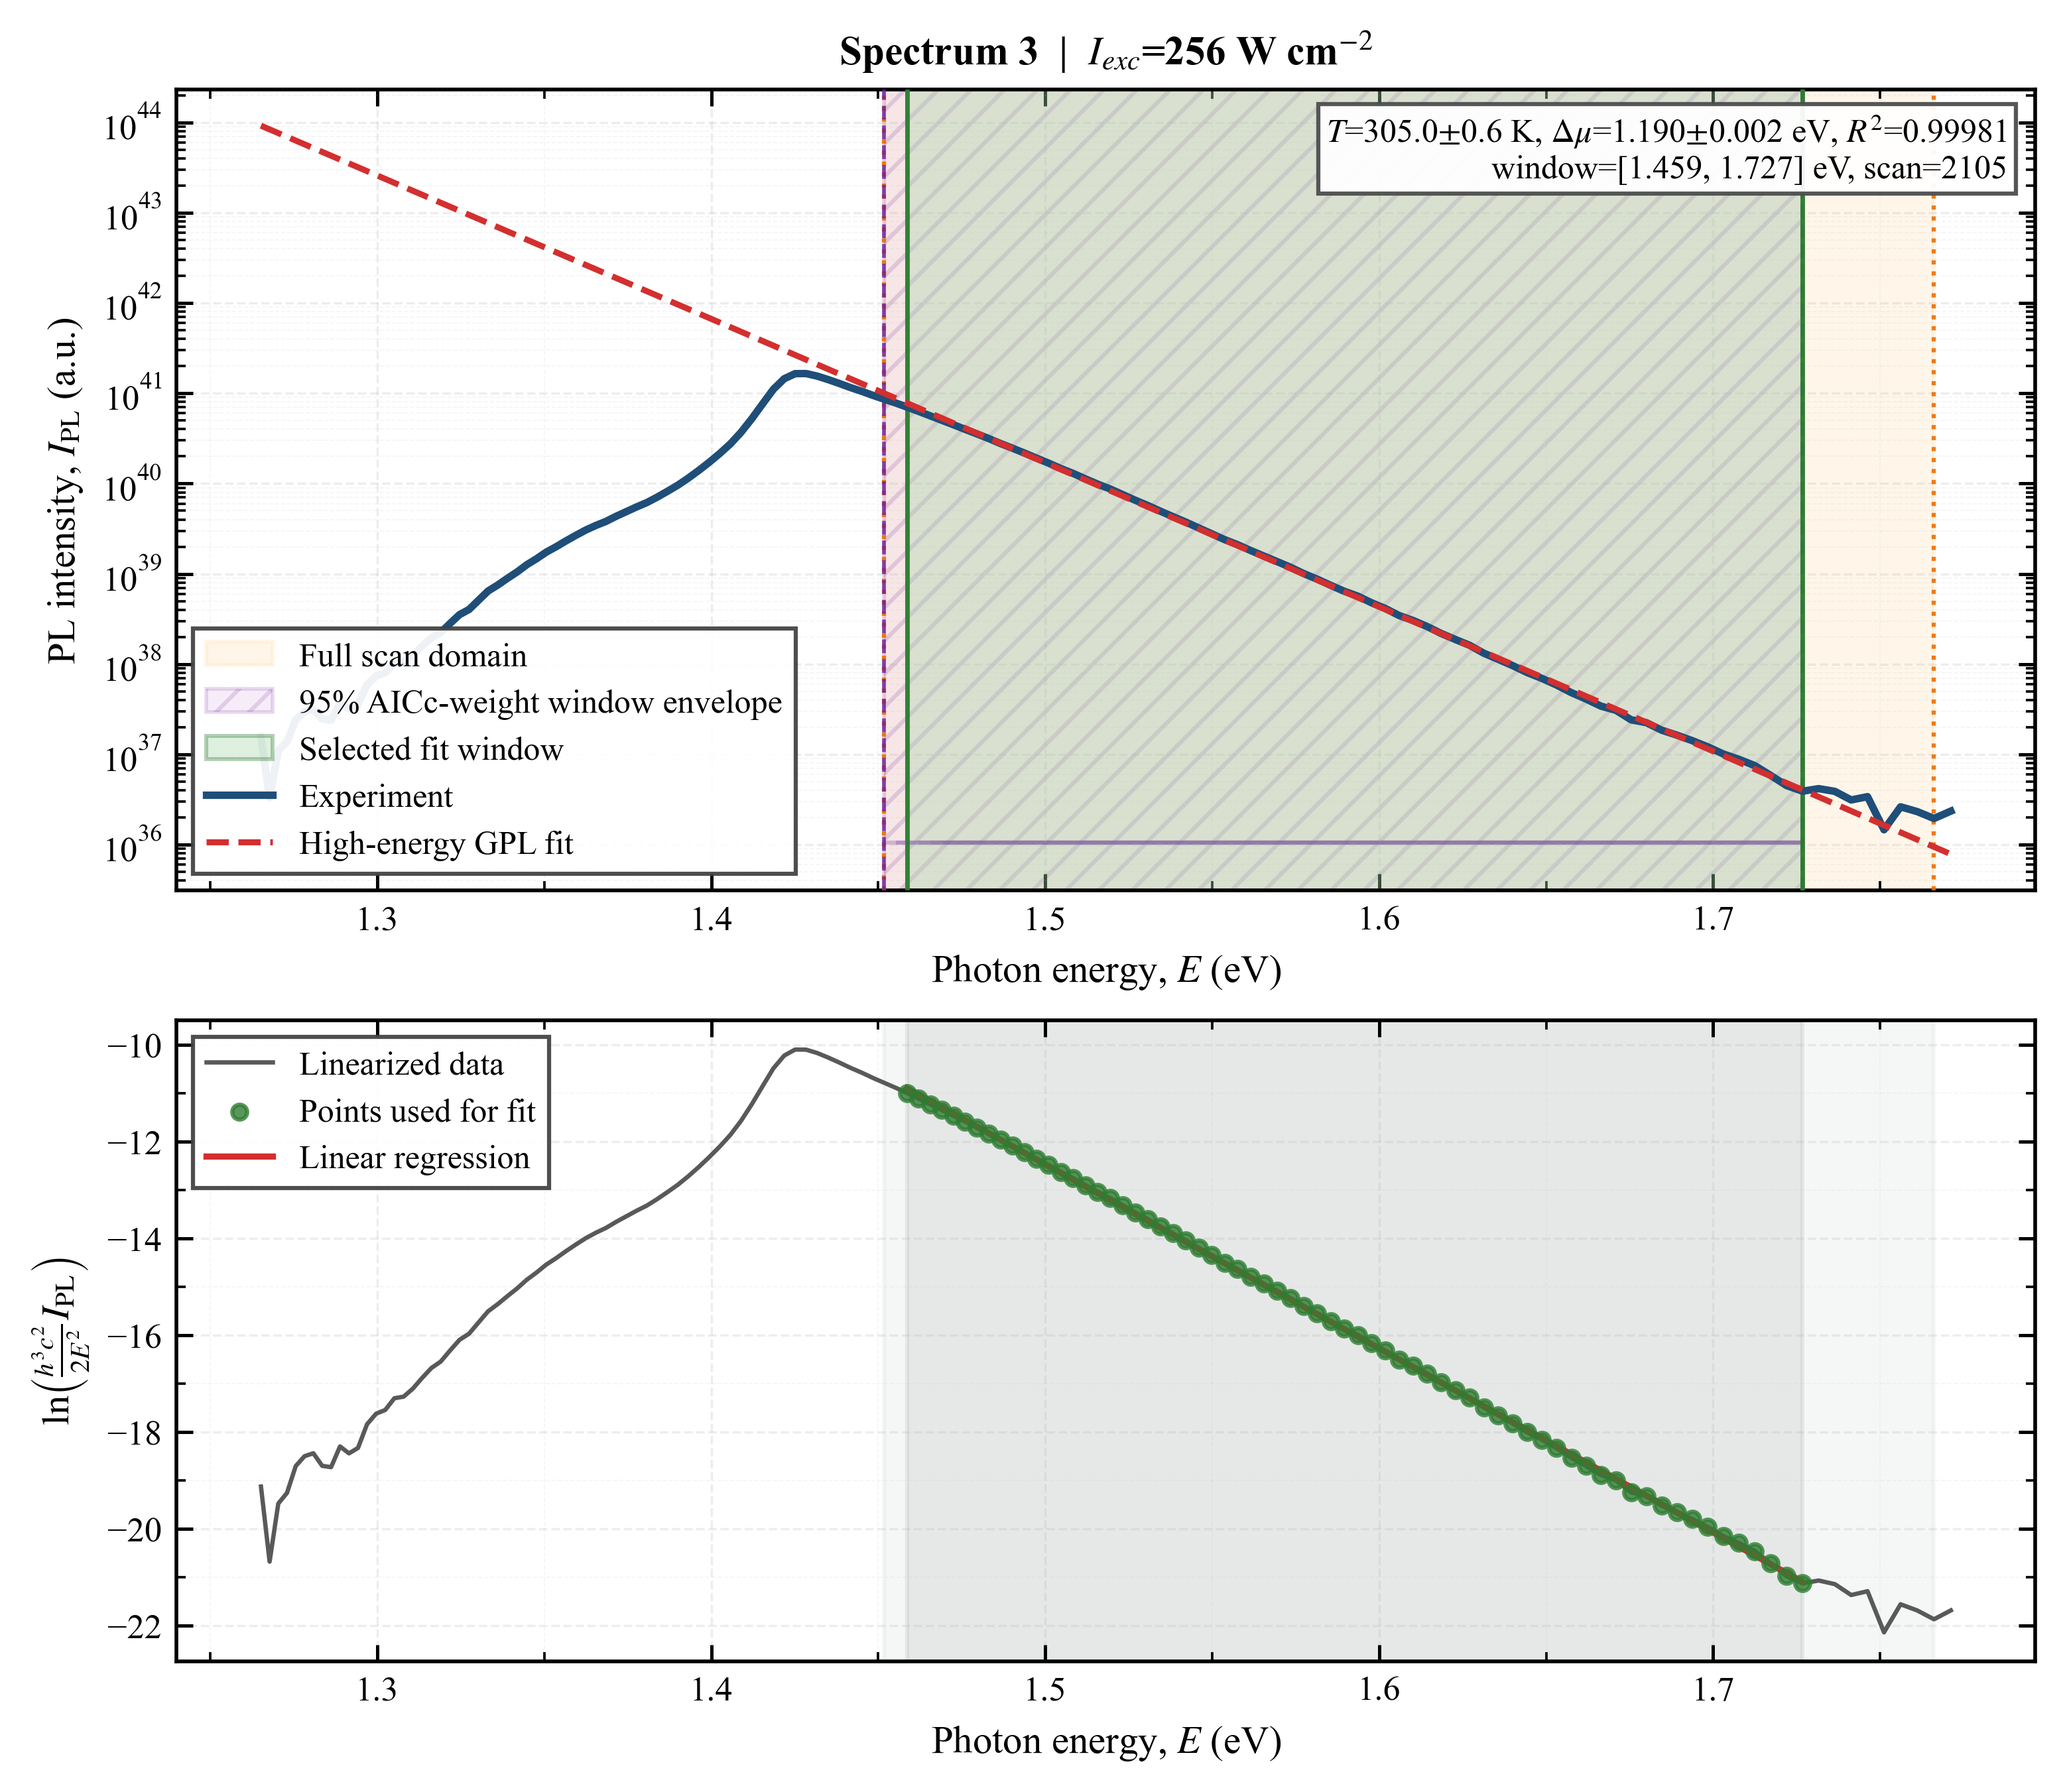
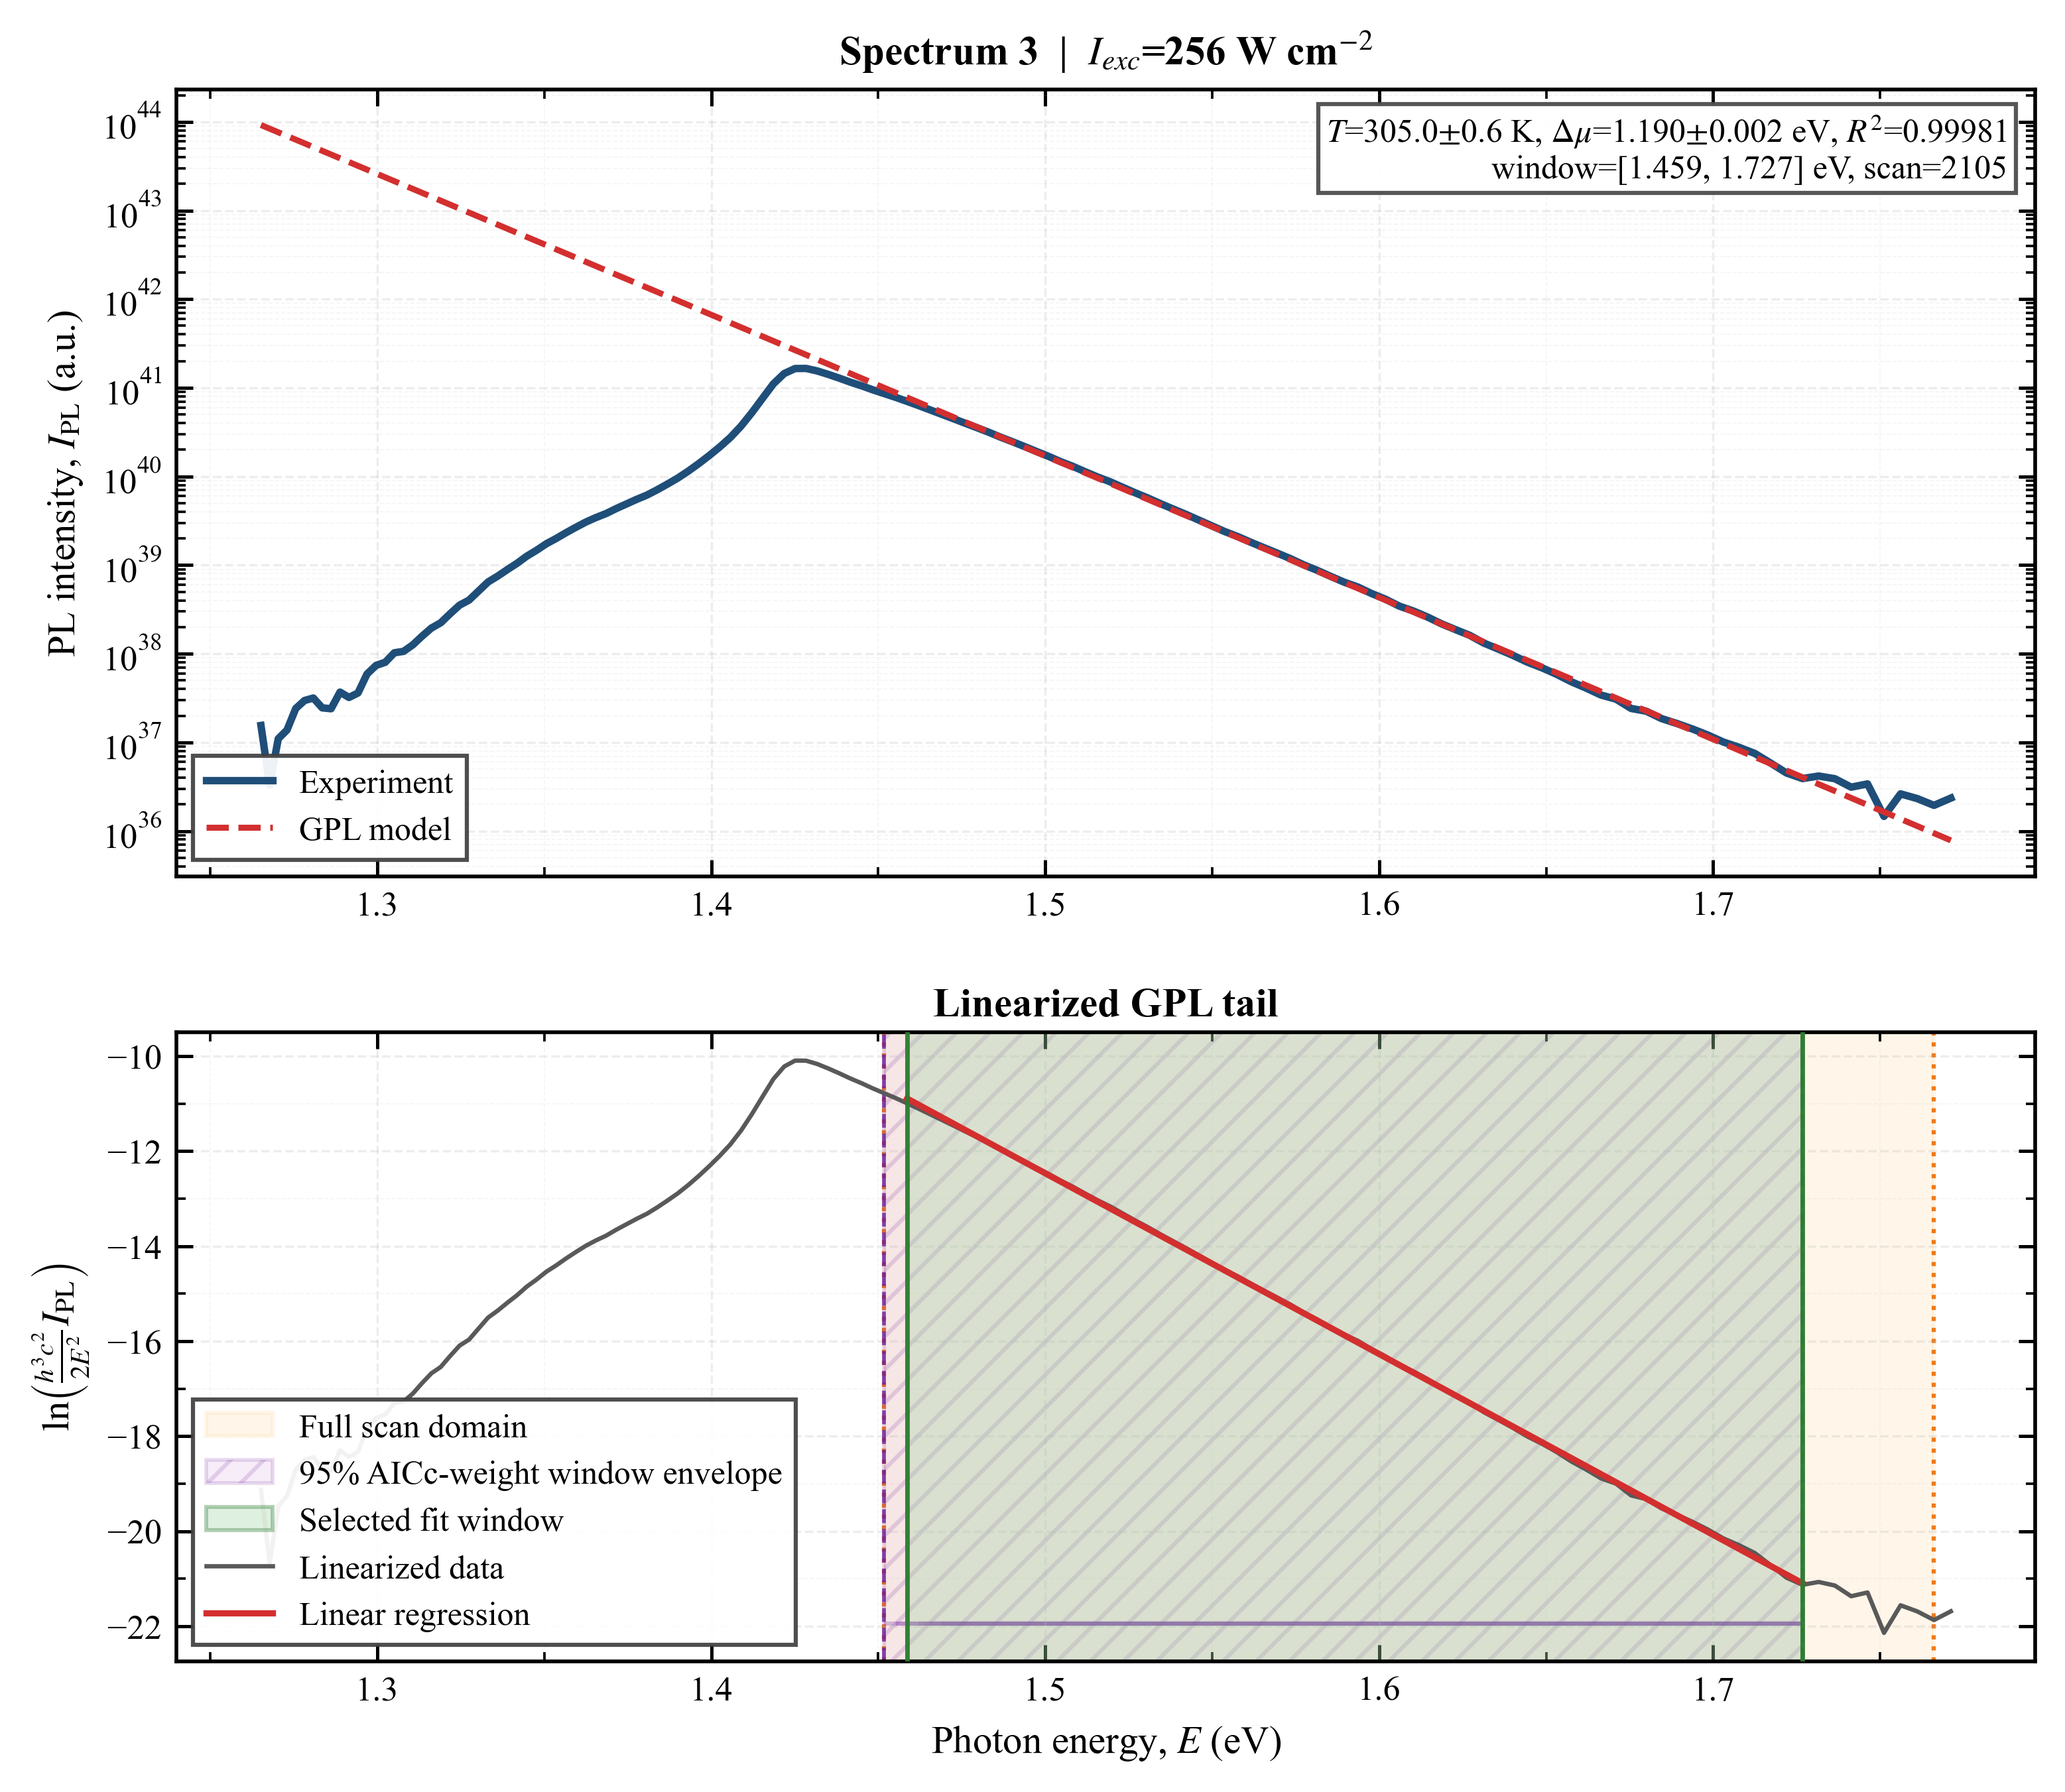
Enhance README with detailed explanation of linearized Q extraction from P_th vs ΔT figure and update plotting.py for improved visual diagnostics

diff --git a/hot_carrier/plotting.py b/hot_carrier/plotting.py
@@ -266,7 +266,7 @@ def plot_single_fit(
         1,
         figsize=_page_single_column_figsize(PAGE_TALL_FIG_HEIGHT_IN),
         sharex=False,
-        gridspec_kw={"height_ratios": [1.25, 1.0], "hspace": 0.18},
+        gridspec_kw={"height_ratios": [1.25, 1.0], "hspace": 0.22},
     )
     ax0, ax1 = axes
 
@@ -277,61 +277,6 @@ def plot_single_fit(
     envelope_fill_color = "#ce93d8"
     envelope_edge_color = "#6a1b9a"
 
-    if scan_domain_ev is not None:
-        ax0.axvspan(
-            scan_domain_ev[0],
-            scan_domain_ev[1],
-            color=scan_fill_color,
-            alpha=0.28,
-            zorder=0,
-            label="Full scan domain",
-        )
-        ax0.axvline(
-            scan_domain_ev[0], color=scan_edge_color, lw=1.0, ls=":", alpha=0.9, zorder=3
-        )
-        ax0.axvline(
-            scan_domain_ev[1], color=scan_edge_color, lw=1.0, ls=":", alpha=0.9, zorder=3
-        )
-    if fit_range_windows_ev:
-        for lo_ev, hi_ev in fit_range_windows_ev:
-            ax0.hlines(
-                y=0.06,
-                xmin=lo_ev,
-                xmax=hi_ev,
-                transform=ax0.get_xaxis_transform(),
-                color=envelope_edge_color,
-                lw=1.0,
-                alpha=0.28,
-                zorder=1,
-            )
-        lo_env = float(min(w[0] for w in fit_range_windows_ev))
-        hi_env = float(max(w[1] for w in fit_range_windows_ev))
-        coverage_pct = 100.0 * FIT_RANGE_SCAN_PLOT_WEIGHT_COVERAGE
-        ax0.axvspan(
-            lo_env,
-            hi_env,
-            facecolor=envelope_fill_color,
-            alpha=0.16,
-            hatch="///",
-            edgecolor=envelope_edge_color,
-            lw=0.9,
-            zorder=1,
-            label=f"{coverage_pct:.0f}% AICc-weight window envelope",
-        )
-        ax0.axvline(lo_env, color=envelope_edge_color, lw=0.9, ls="--", alpha=0.8, zorder=3)
-        ax0.axvline(hi_env, color=envelope_edge_color, lw=0.9, ls="--", alpha=0.8, zorder=3)
-    ax0.axvspan(
-        fit_min_ev,
-        fit_max_ev,
-        facecolor=selected_fill_color,
-        alpha=0.36,
-        edgecolor=selected_edge_color,
-        lw=0.95,
-        zorder=2,
-        label="Selected fit window",
-    )
-    ax0.axvline(fit_min_ev, color=selected_edge_color, lw=1.1, ls="-", alpha=0.95, zorder=4)
-    ax0.axvline(fit_max_ev, color=selected_edge_color, lw=1.1, ls="-", alpha=0.95, zorder=4)
     ax0.plot(energy_ev, intensity, color="#1f4e79", lw=1.8, label="Experiment", zorder=5)
     ax0.plot(
         energy_ev,
@@ -339,12 +284,11 @@ def plot_single_fit(
         color="#d32f2f",
         lw=1.45,
         ls="--",
-        label="High-energy GPL fit",
+        label="GPL model",
         zorder=6,
     )
 
     style_axes(ax0, logy=True)
-    ax0.set_xlabel(r"Photon energy, $E$ (eV)")
     ax0.set_ylabel(r"PL intensity, $I_{\mathrm{PL}}$ (a.u.)")
     ax0.legend(loc="lower left", fontsize=LEGEND_FONT_SIZE)
     ax0.set_title(
@@ -383,29 +327,79 @@ def plot_single_fit(
     _raise_annotation(info_artist)
 
     y_all = linearized_signal(energy_ev[intensity > 0], intensity[intensity > 0])
+    if scan_domain_ev is not None:
+        ax1.axvspan(
+            scan_domain_ev[0],
+            scan_domain_ev[1],
+            color=scan_fill_color,
+            alpha=0.28,
+            zorder=0,
+            label="Full scan domain",
+        )
+        ax1.axvline(
+            scan_domain_ev[0], color=scan_edge_color, lw=1.0, ls=":", alpha=0.9, zorder=1
+        )
+        ax1.axvline(
+            scan_domain_ev[1], color=scan_edge_color, lw=1.0, ls=":", alpha=0.9, zorder=1
+        )
+    if fit_range_windows_ev:
+        for lo_ev, hi_ev in fit_range_windows_ev:
+            ax1.hlines(
+                y=0.06,
+                xmin=lo_ev,
+                xmax=hi_ev,
+                transform=ax1.get_xaxis_transform(),
+                color=envelope_edge_color,
+                lw=1.0,
+                alpha=0.28,
+                zorder=1,
+            )
+        lo_env = float(min(w[0] for w in fit_range_windows_ev))
+        hi_env = float(max(w[1] for w in fit_range_windows_ev))
+        coverage_pct = 100.0 * FIT_RANGE_SCAN_PLOT_WEIGHT_COVERAGE
+        ax1.axvspan(
+            lo_env,
+            hi_env,
+            facecolor=envelope_fill_color,
+            alpha=0.16,
+            hatch="///",
+            edgecolor=envelope_edge_color,
+            lw=0.9,
+            zorder=1,
+            label=f"{coverage_pct:.0f}% AICc-weight window envelope",
+        )
+        ax1.axvline(lo_env, color=envelope_edge_color, lw=0.9, ls="--", alpha=0.8, zorder=2)
+        ax1.axvline(hi_env, color=envelope_edge_color, lw=0.9, ls="--", alpha=0.8, zorder=2)
+    ax1.axvspan(
+        fit_min_ev,
+        fit_max_ev,
+        facecolor=selected_fill_color,
+        alpha=0.36,
+        edgecolor=selected_edge_color,
+        lw=0.95,
+        zorder=2,
+        label="Selected fit window",
+    )
+    ax1.axvline(fit_min_ev, color=selected_edge_color, lw=1.1, ls="-", alpha=0.95, zorder=3)
+    ax1.axvline(fit_max_ev, color=selected_edge_color, lw=1.1, ls="-", alpha=0.95, zorder=3)
     ax1.plot(energy_ev[intensity > 0], y_all, color="0.35", lw=1.05, label="Linearized data")
 
     x_fit_ev = energy_ev[fit_mask]
     x_fit_j = x_fit_ev * E_CHARGE
     y_line = result.slope * x_fit_j + result.intercept
-    y_fit_data = linearized_signal(x_fit_ev, intensity[fit_mask])
-    ax1.scatter(
+    ax1.plot(
         x_fit_ev,
-        y_fit_data,
-        s=13,
-        color="#2e7d32",
-        alpha=0.8,
-        zorder=3,
-        label="Points used for fit",
+        y_line,
+        color="#d32f2f",
+        lw=1.5,
+        ls="-",
+        label="Linear regression",
     )
-    ax1.plot(x_fit_ev, y_line, color="#d32f2f", lw=1.5, ls="-", label="Linear regression")
-    if scan_domain_ev is not None:
-        ax1.axvspan(scan_domain_ev[0], scan_domain_ev[1], color="#b0bec5", alpha=0.12)
-    ax1.axvspan(fit_min_ev, fit_max_ev, color="0.65", alpha=0.18)
     style_axes(ax1)
     ax1.set_xlabel(r"Photon energy, $E$ (eV)")
     ax1.set_ylabel(r"$\ln\!\left(\frac{h^3 c^2}{2E^2}I_{\mathrm{PL}}\right)$")
-    ax1.legend(loc="best", fontsize=LEGEND_FONT_SIZE)
+    ax1.set_title("Linearized GPL tail", pad=4.0)
+    ax1.legend(loc="lower left", fontsize=LEGEND_FONT_SIZE)
 
     fig.subplots_adjust(left=0.11, right=0.98, bottom=0.09, top=0.94, hspace=0.18)
     save_figure(fig, outpath)
@@ -1749,9 +1743,9 @@ def plot_tsai_temperature_rise_vs_pth_density(
             zorder=3,
         )
         for fit_result, fit_source, color, linestyle, label in (
-            (q_fit_exp, dT_exp, "#263238", "--", "Experimental Q-fit"),
-            (q_fit_fd, dT_fd, "#1565c0", "-.", "FD Q-fit"),
-            (q_fit_mb, dT_mb, "#8e24aa", ":", "MB Q-fit"),
+            (q_fit_exp, dT_exp, "#263238", "--", "Experimental Q-fit (back-transformed)"),
+            (q_fit_fd, dT_fd, "#1565c0", "-.", "FD Q-fit (back-transformed)"),
+            (q_fit_mb, dT_mb, "#8e24aa", ":", "MB Q-fit (back-transformed)"),
         ):
             if fit_result is None:
                 continue
@@ -1789,7 +1783,7 @@ def plot_tsai_temperature_rise_vs_pth_density(
             if line is not None
         ]
         if q_summary_lines:
-            q_text = "Linearized Q fit:\n" + "\n".join(q_summary_lines)
+            q_text = "Q from linearized fit:\n" + "\n".join(q_summary_lines)
             q_text_artist = ax0.text(
                 0.03,
                 0.97,
@@ -1953,8 +1947,8 @@ def plot_tsai_temperature_rise_vs_pth_density(
         zorder=4,
     )
     for fit_result, fit_source, color, linestyle, label in (
-        (q_fit_exp, dT_exp, "#263238", "--", "Experimental Q-fit"),
-        (q_fit_sim, dT_sim, "#1565c0", "-.", "Tsai Q-fit"),
+        (q_fit_exp, dT_exp, "#263238", "--", "Experimental Q-fit (back-transformed)"),
+        (q_fit_sim, dT_sim, "#1565c0", "-.", "Tsai Q-fit (back-transformed)"),
     ):
         if fit_result is None:
             continue
@@ -1992,7 +1986,7 @@ def plot_tsai_temperature_rise_vs_pth_density(
         if line is not None
     ]
     if q_summary_lines:
-        q_text = "Linearized Q fit:\n" + "\n".join(q_summary_lines)
+        q_text = "Q from linearized fit:\n" + "\n".join(q_summary_lines)
         q_text_artist = ax0.text(
             0.03,
             0.97,

diff --git a/README.md b/README.md
@@ -302,6 +302,19 @@ $$
 The distinction is deliberate. `Delta_mu_eff` is what the raw line intercept
 contains. `Delta_mu` is the intercept after imposing the chosen `A0`.
 
+The important plotting point is that the **actual least-squares regression is
+performed only on this linearized quantity** `y(E)` versus `E`. In each
+`outputs/fits/fit_spectrum_XX.png`:
+
+- the **bottom panel** is the object that is actually fit,
+- the **top panel** shows the raw GPL spectrum together with the model obtained
+  by back-transforming that lower-panel regression.
+
+So the dashed red curve in the top panel should not be read as "a line was fit
+directly on the log-intensity GPL plot". It was not. The reported `R^2` is the
+quality of the lower-panel linear regression in
+`ln[(h^3 c^2 / 2E^2) I_PL]` versus photon energy.
+
 ### 5.5 Why temperature is more trustworthy than density
 
 The code reports both temperature and density-related quantities, but they do
@@ -867,7 +880,43 @@ That is a data-processing choice with a clear physical rationale: the relevant
 comparison is multiplicative over a wide dynamic range, not additive over a
 narrow one.
 
-### 11.7 What the current Tsai comparison means
+### 11.7 How `Q` is extracted from the `P_th` vs `\Delta T` figure
+
+The `outputs/tsai_temperature_rise_vs_pth_density.png` figure is displayed as
+carrier temperature rise versus thermalized power density with a logarithmic
+`P_th` axis. The `Q` extraction is **not** obtained by fitting a straight line
+directly in those displayed axes.
+
+Instead, the code linearizes the Tsai-style thermalization relation as:
+
+$$
+P_{\mathrm{th}}\exp\left(\frac{E_{\mathrm{LO}}}{k_B T_c}\right) = Q(T_c-T_L) + b
+= Q\,\Delta T + b
+$$
+
+with:
+
+- `T_c = T_L + Delta T`,
+- `Q` as the thermalization coefficient,
+- `b` as a free intercept rather than forcing the line through the origin.
+
+The regression is performed on the linearized quantity
+`P_th exp(E_LO / k_B T_c)` versus `Delta T`. The curve shown on
+`outputs/tsai_temperature_rise_vs_pth_density.png` is the back-transformed
+result drawn on the original `Delta T` versus `P_th` axes, so it does not
+appear as a straight line in the displayed figure.
+
+With the present defaults and bundled dataset, the fitted `Q` values are:
+
+- experimental points: `Q ~= 1.22 x 10^7 W cm^-3 K^-1`, `R^2 ~= 0.978`
+- Tsai FD prediction: `Q ~= 1.26 x 10^7 W cm^-3 K^-1`, `R^2 ~= 0.999`
+- Tsai MB prediction: `Q ~= 1.19 x 10^7 W cm^-3 K^-1`, `R^2 ~= 0.999`
+
+These `Q` values are useful compact diagnostics of how steeply the thermalized
+power rises with carrier temperature under the Tsai-style LO-phonon activation
+factor. They are not a substitute for the full inverse-map comparison.
+
+### 11.8 What the current Tsai comparison means
 
 The code:
 
@@ -913,14 +962,18 @@ The main outputs are:
   channels.
 - `outputs/all_spectra_logscale.png`: raw spectra across all excitation
   intensities.
-- `outputs/fits/fit_spectrum_XX.png`: the chosen fit window and linearized
-  tail for each spectrum.
+- `outputs/fits/fit_spectrum_XX.png`: two-panel optical-fit diagnostic; the
+  lower panel is the actual linear regression on the linearized GPL tail, while
+  the upper panel shows the back-transformed model on the raw PL scale.
 - `outputs/parameters_vs_intensity.png`: extracted state variables versus pump
   intensity.
 - `outputs/thermalized_power_diagnostics.png`: thermalized-power diagnostics and
   per-carrier cooling quantities.
 - `outputs/recombination_channel_contributions.png`: radiative versus
   nonradiative channel comparison.
+- `outputs/tsai_temperature_rise_vs_pth_density.png`: experimental and
+  Tsai-predicted `Delta T` versus `P_th`, including back-transformed `Q`-fit
+  curves and annotated `Q` values from the linearized relation above.
 - `outputs/mb_validity_limit.png`, `outputs/mb_validity_scan.csv`,
   `outputs/mb_validity_limits.csv`: the photon-occupation MB diagnostic.
 - `outputs/tsai_forward_stateT_to_pth.csv`,
